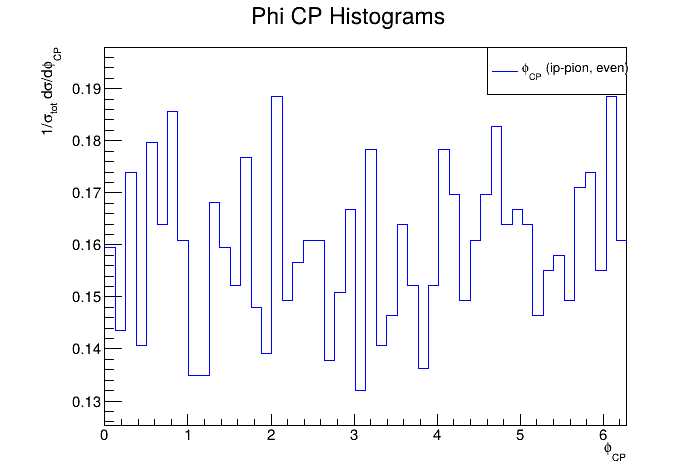
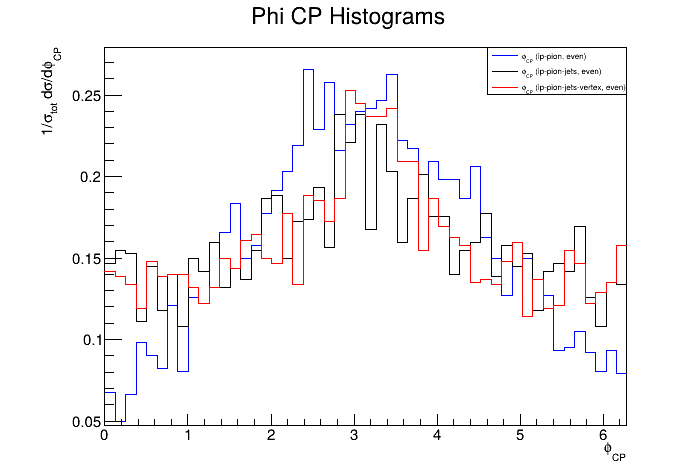
this works for hadhad

diff --git a/stuff_in_the_wrong_dir/script.py b/stuff_in_the_wrong_dir/script.py
@@ -10,9 +10,9 @@ histograms = {
     # "#phi_{CP} (neutrino-pion, odd)": file_odd.Get("phi_CP_neutrino_pi"),
     "#phi_{CP} (ip-pion, even)": file_even.Get("phi_CP_pion"),
     # "#phi_{CP} (ip-pion, odd)": file_odd.Get("phi_CP_pion"),
-    # "#phi_{CP} (ip-pion-jets, even)": file_even.Get("phi_CP_pion_jet"),
+    "#phi_{CP} (ip-pion-jets, even)": file_even.Get("phi_CP_pion_jet"),
     # "#phi_{CP} (ip-pion-jets, odd)": file_odd.Get("phi_CP_pion_jet"),
-    # "#phi_{CP} (ip-pion-jets-vertex, even)": file_even.Get("phi_CP_pion_jet_reco"),
+    "#phi_{CP} (ip-pion-jets-vertex, even)": file_even.Get("phi_CP_pion_jet_reco"),
     # "#phi_{CP} (ip-pion-jets-vertex, odd)": file_odd.Get("phi_CP_pion_jet_reco"),
 }
 
